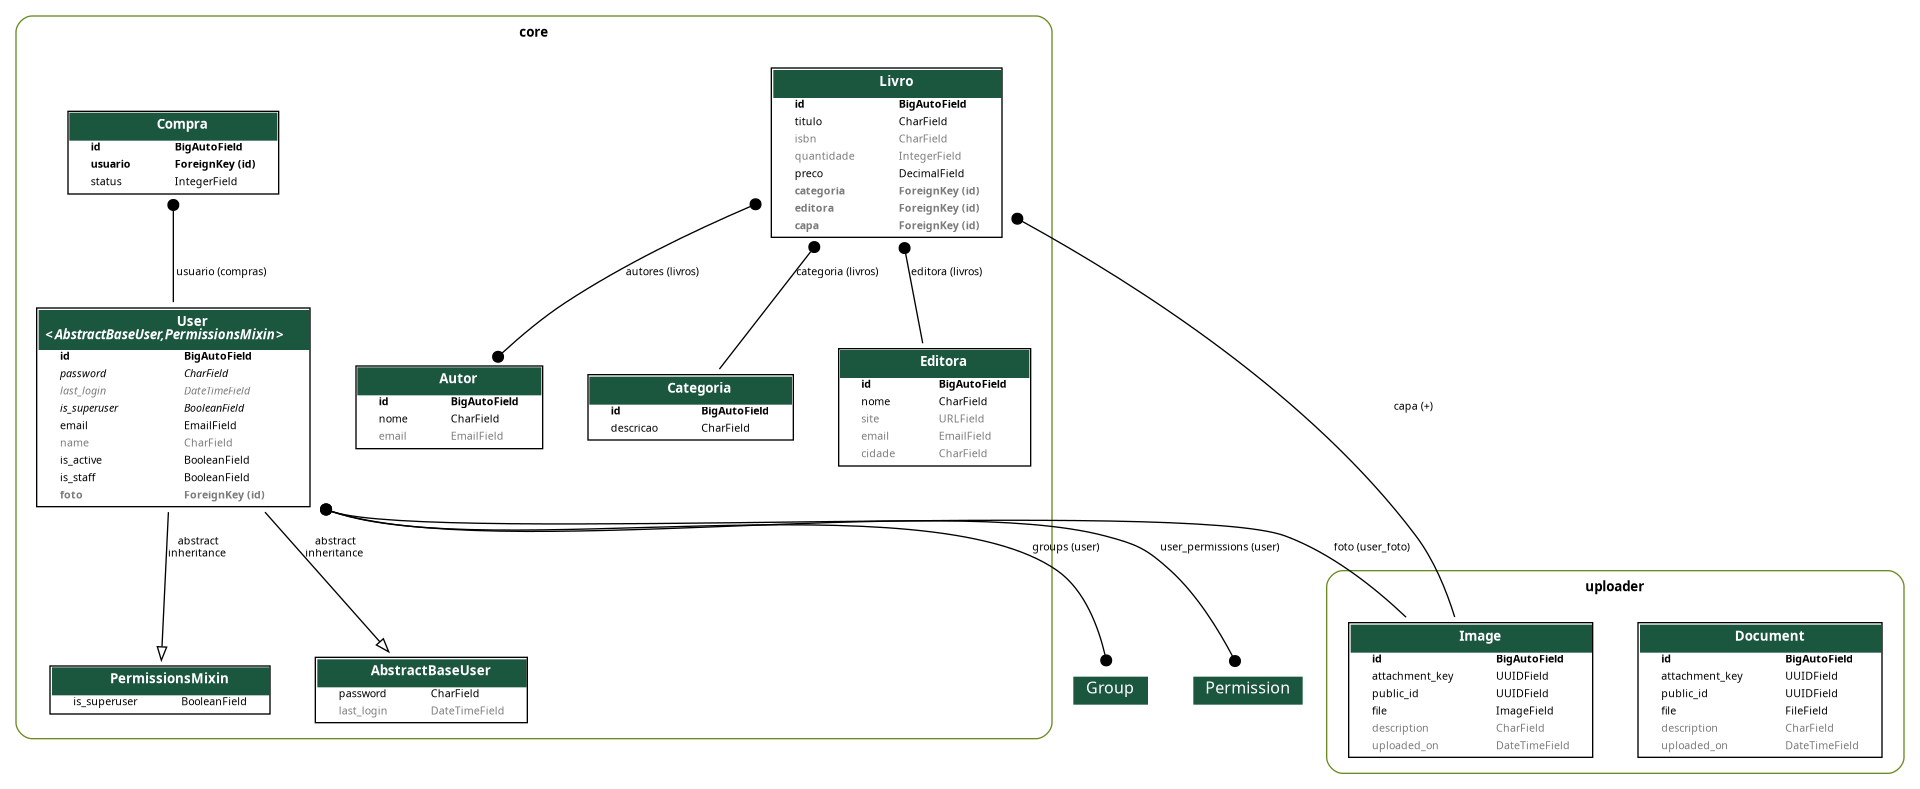
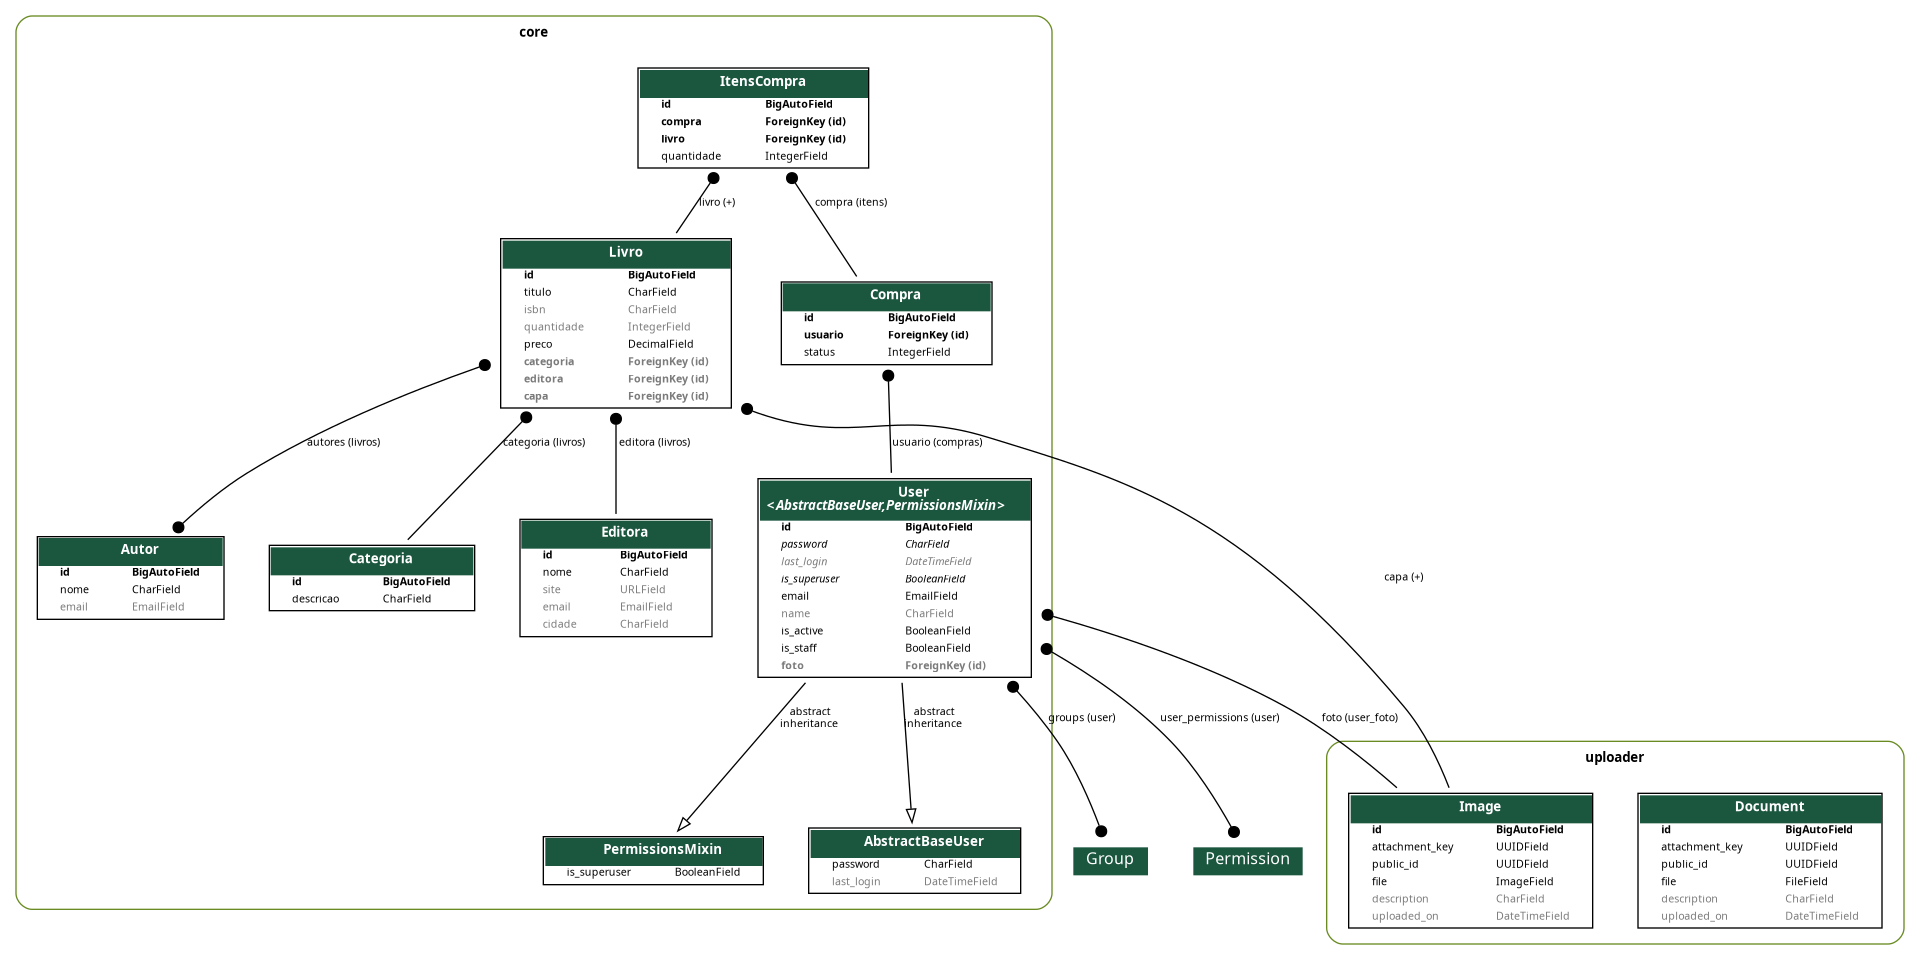
feat: criação dos itens da compra

diff --git a/core/migrations/0016_itenscompra.py b/core/migrations/0016_itenscompra.py
@@ -1,0 +1,23 @@
+# Generated by Django 5.2.13 on 2026-08-14 11:44
+
+import django.db.models.deletion
+from django.db import migrations, models
+
+
+class Migration(migrations.Migration):
+
+    dependencies = [
+        ('core', '0015_compra'),
+    ]
+
+    operations = [
+        migrations.CreateModel(
+            name='ItensCompra',
+            fields=[
+                ('id', models.BigAutoField(auto_created=True, primary_key=True, serialize=False, verbose_name='ID')),
+                ('quantidade', models.IntegerField(default=1)),
+                ('compra', models.ForeignKey(on_delete=django.db.models.deletion.CASCADE, related_name='itens', to='core.compra')),
+                ('livro', models.ForeignKey(on_delete=django.db.models.deletion.PROTECT, related_name='+', to='core.livro')),
+            ],
+        ),
+    ]

diff --git a/core/models/compra.py b/core/models/compra.py
@@ -1,6 +1,7 @@
 from django.db import models
-
 from .user import User
+from .livro import Livro
+
 
 class Compra(models.Model):
     class StatusCompra(models.IntegerChoices):
@@ -10,4 +11,10 @@ class Compra(models.Model):
         ENTREGUE = 4, 'Entregue'
 
     usuario = models.ForeignKey(User, on_delete=models.PROTECT, related_name='compras')
-    status = models.IntegerField(choices=StatusCompra.choices,  default=StatusCompra.CARRINHO)
+    status = models.IntegerField(choices=StatusCompra.choices, default=StatusCompra.CARRINHO)
+
+
+class ItensCompra(models.Model):
+    compra = models.ForeignKey(Compra, on_delete=models.CASCADE, related_name='itens')
+    livro = models.ForeignKey(Livro, on_delete=models.PROTECT, related_name='+')
+    quantidade = models.IntegerField(default=1)

diff --git a/core/models/__init__.py b/core/models/__init__.py
@@ -3,4 +3,4 @@ from .categoria import Categoria
 from .editora import Editora
 from .livro import Livro
 from .user import User
-from .compra import Compra
+from .compra import Compra, ItensCompra
